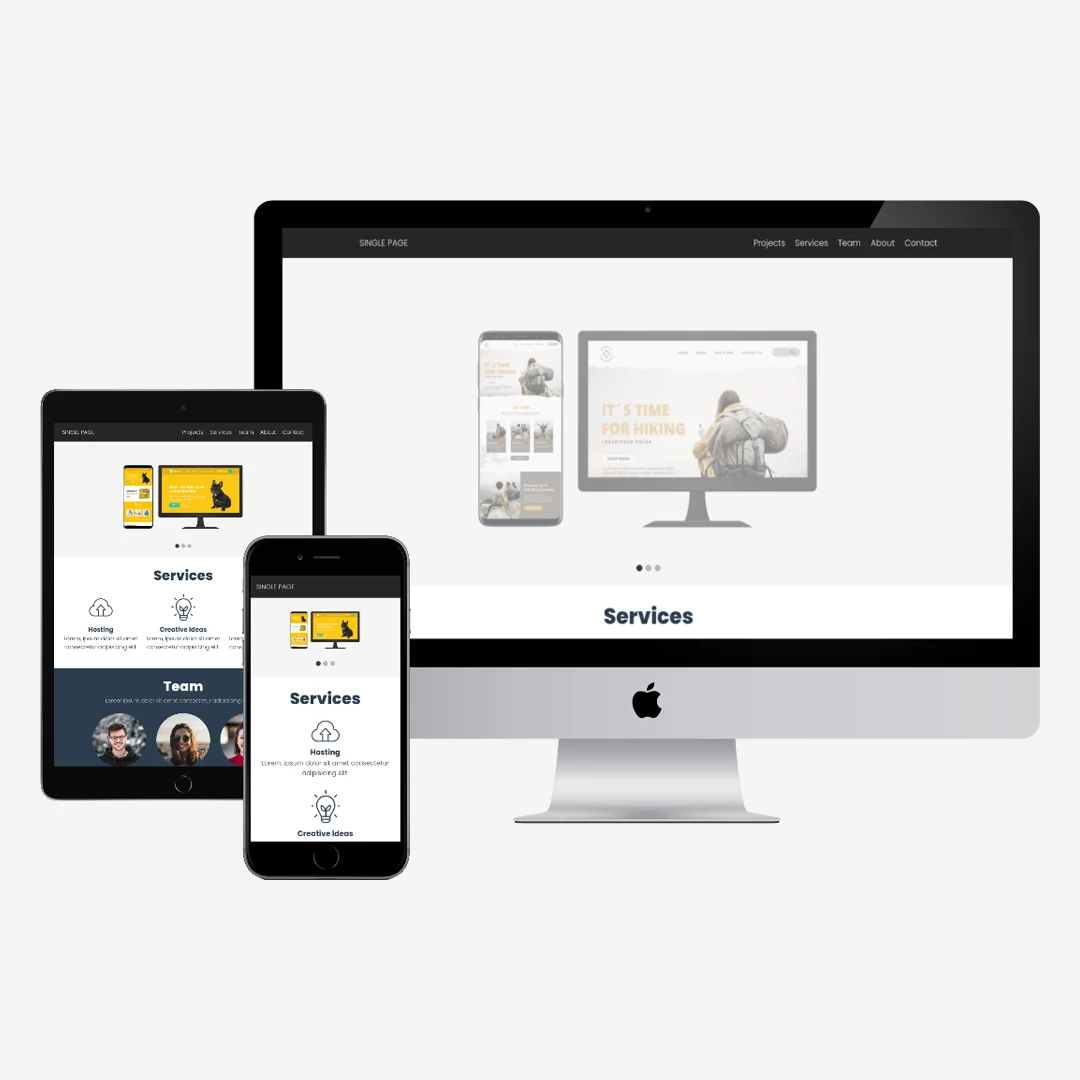
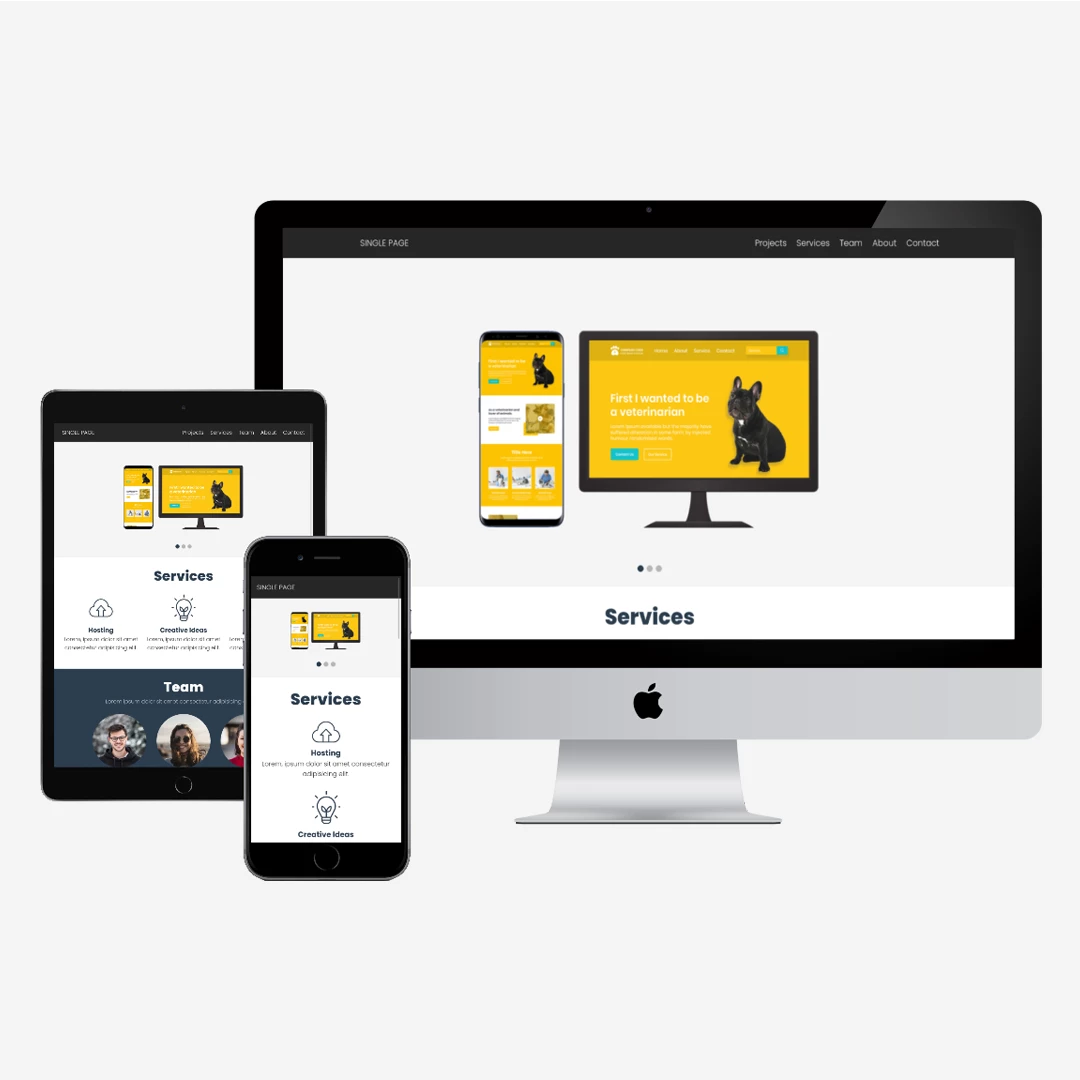
Update image of single page

diff --git a/src/content/content.tsx b/src/content/content.tsx
@@ -136,7 +136,7 @@ export const projects = [
     skills: 'HTML Less JavaScript Gulp',
     websiteLink: 'https://aleferreinert.github.io/single-page',
     repositoryLink: 'https://github.com/AleferReinert/single-page',
-    img: 'https://res.cloudinary.com/devalefer/image/upload/v1689600901/portfolio/projects/single-page_wvrp0j.webp'
+    img: 'https://res.cloudinary.com/devalefer/image/upload/v1689701547/portfolio/projects/single-page_omkoyr.webp'
   },
   {
     title: 'Tic Tac Toe',
